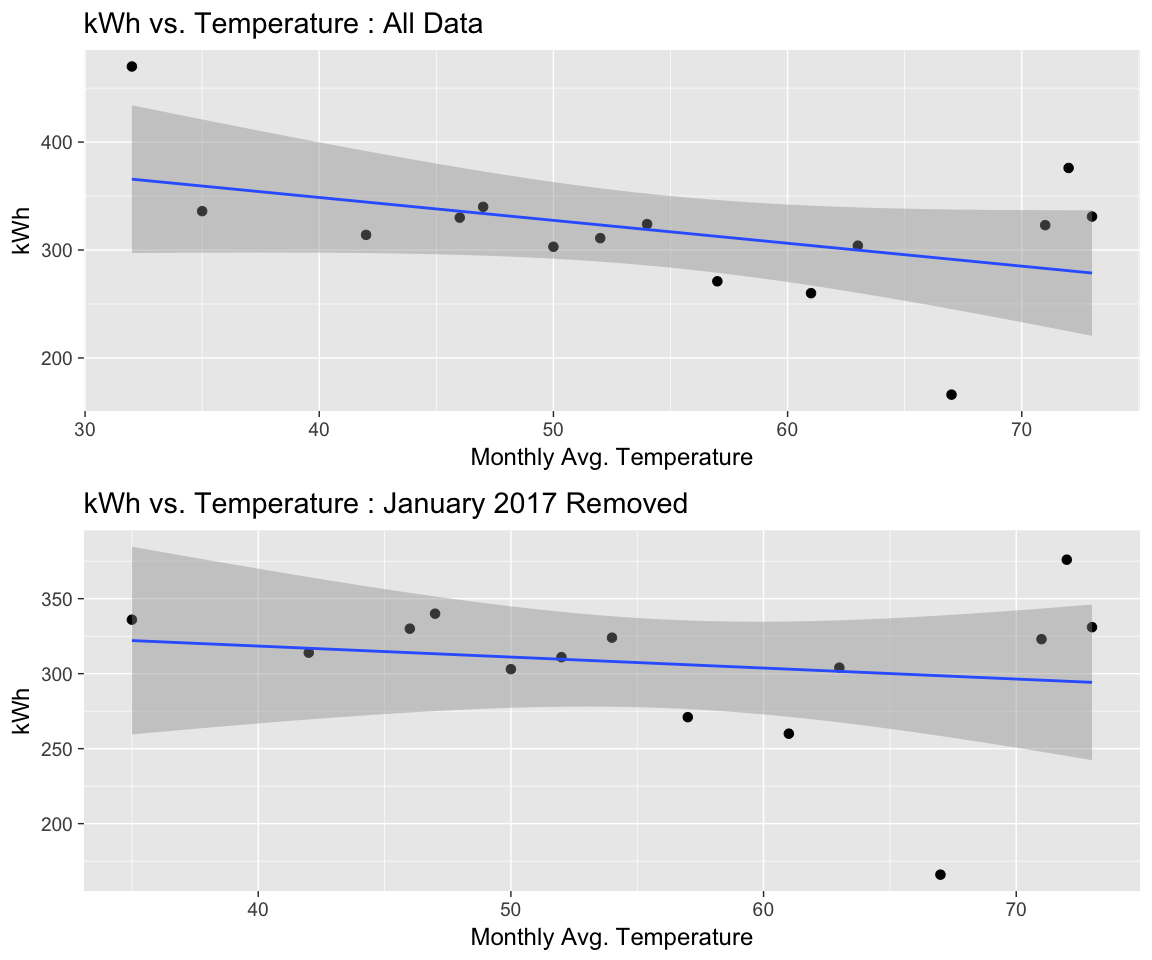
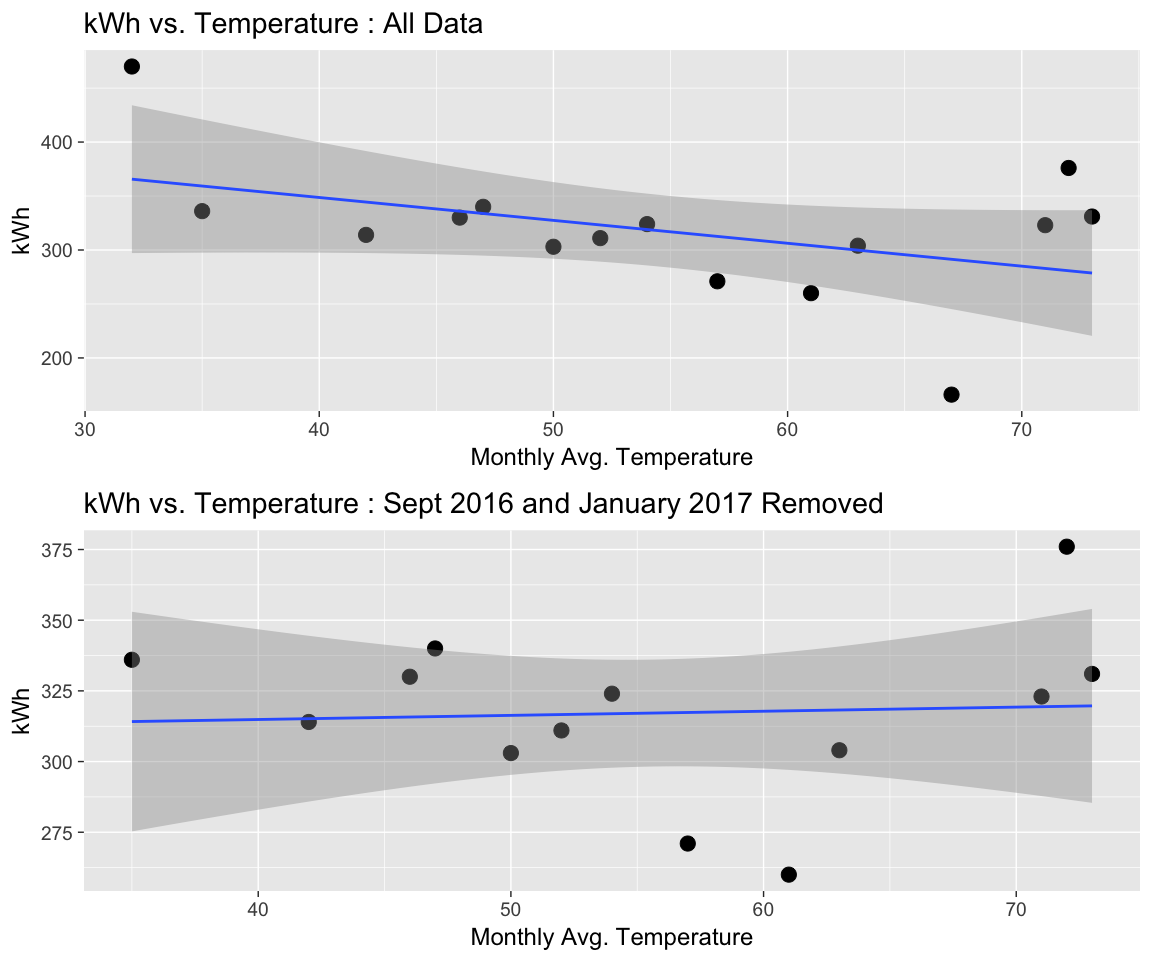
update blog post and figures

diff --git a/_posts/2017-12-11-energy_use.md b/_posts/2017-12-11-energy_use.md
@@ -4,11 +4,19 @@ title: 'Winter Is Coming (with higher energy bills)'
 ---
 
 
-Winter is coming, but for us that means higher energy bills, not [whitewalkers](http://gameofthrones.wikia.com/wiki/White_Walkers) :) . We've had a few unseasonably warm days and not much snow yet, but it's definitely colder and we are now using our heat almost every night. I thought it would be fun to explore our energy usage data in R. 
+
+# Introduction
+
+Winter is coming, but for us that means higher energy bills, not [whitewalkers](http://gameofthrones.wikia.com/wiki/White_Walkers) :) . We've had a few unseasonably warm days and not much snow yet, but it's definitely colder and we are now using our heat almost every night. I thought it would be fun to explore our energy usage data in R.
 
 
 # Data
-[Xcel energy](https://www.xcelenergy.com/) lets you download your usage data as a csv file. However it is not in a format that is easy to read in to R; it's probably possible to write code to read in the sections you want, but it really just wasn't worth it for an analysis I might do once a year. So I just copied the data I needed into a new clean spreadsheet.
+[Xcel energy](https://www.xcelenergy.com/) lets you download your monthly usage data as a csv file. However it is not in a format that is easy to read in to R; it's probably possible to write code to read in the sections you want, but it really just wasn't worth it for an analysis I might do once a year. So I just copied the data I wanted (date, energy use, and temperature) into a new clean spreadsheet.
+
+Then I read the csv files into R and clean them up:
+* Rename columns
+* Convert Date to a date variable
+* remove degree signs from temperatures using gsub
 
 
 
@@ -20,14 +28,14 @@ suppressPackageStartupMessages(library(dplyr))
 suppressPackageStartupMessages(library(lubridate))
 ```
 
-## Gas data
+### Gas data
 
 ```r
 # load gas data
 gas <- read.csv('data/xcel_gas.csv',stringsAsFactors = FALSE)
-gas <-gas %>% rename(Date=Last.Read.Date,therms=Gas.Usage..Therms.,avgTemp=Average.Temperature) %>% 
-  select(Date,therms,avgTemp) %>% 
-  mutate(Date=mdy(Date)) %>% 
+gas <-gas %>% rename(Date=Last.Read.Date,therms=Gas.Usage..Therms.,avgTemp=Average.Temperature) %>%
+  select(Date,therms,avgTemp) %>%
+  mutate(Date=mdy(Date)) %>%
   mutate(avgTemp=as.integer(gsub("[^0-9]", "", avgTemp) ))
 head(gas)
 ```
@@ -44,14 +52,14 @@ head(gas)
 
 
 
-## Electric Data
+### Electric Data
 
 ```r
 ele <- read.csv('data/xcel_elec.csv',stringsAsFactors = FALSE)
 
-ele <- ele %>% rename(Date=Last.Read.Date,kWh=Electric.Usage..kWh.,avgTemp=Average.Temperature) %>% 
-  select(Date,kWh,avgTemp) %>% 
-  mutate(Date=mdy(Date)) %>% 
+ele <- ele %>% rename(Date=Last.Read.Date,kWh=Electric.Usage..kWh.,avgTemp=Average.Temperature) %>%
+  select(Date,kWh,avgTemp) %>%
+  mutate(Date=mdy(Date)) %>%
   mutate(avgTemp=as.integer(gsub("[^0-9]", "", avgTemp) ))
 
 head(ele)
@@ -71,7 +79,9 @@ head(ele)
 
 # Analysis
 
-## Timeseries of temperature, gas use, and electricity use
+
+### Timeseries
+First i'll look at timeseries of temperature, gas use, and electricity use
 
 ```r
 p1 <- gas %>% ggplot(aes(Date,avgTemp))+
@@ -95,8 +105,9 @@ gridExtra::grid.arrange(p1,p2,p3)
 ![](/images/energy_use/unnamed-chunk-5-1.png)<!-- -->
 
 
-## Gas use vs temperature
-* A scatter plot shows there is a very strong correlation between gas use and temperature
+### Energy use vs temperature
+* A scatter plot is good for showing the relationship between energy use and temperature.
+* There is a very strong correlation between gas use and temperature
 * This makes sense because we have gas heat, and the only other gas appliance we have is the water heater.
 * You can see there is sort of a 'break' in the relationship for temperatures above 70 deg. We never use our heat if it's hotter than 70 deg, so gas usage shouldn't depend on temperature above 70 deg.
 
@@ -104,14 +115,14 @@ gridExtra::grid.arrange(p1,p2,p3)
 
 ```r
 p1 <- gas %>% ggplot(aes(avgTemp,therms))+
-  geom_point(size=3)+
+  geom_point(size=5)+
   geom_smooth(method='lm')+
   ggtitle("Gas Usage vs Temperature ; All Data")+
    xlab("Monthly Avg. Temperature")
 
-p2 <- gas %>% filter(avgTemp<70) %>% 
+p2 <- gas %>% filter(avgTemp<70) %>%
   ggplot(aes(avgTemp,therms))+
-  geom_point(size=3)+
+  geom_point(size=5)+
   geom_smooth(method='lm')+
   ggtitle("Gas Usage vs Temperature ; Only Temp <70")+
    xlab("Monthly Avg. Temperature")
@@ -122,11 +133,11 @@ gridExtra::grid.arrange(p1,p2)
 
 ![](/images/energy_use/unnamed-chunk-6-1.png)<!-- -->
 
-## Fit a linear regression of Gas Usage vs. Avg. Temperature
+### Linear regression vs Temperature
 
 We can fit a linear regression to quantify the dependence of gas usage on temperature. I fit 2 models; 1 with all the data, and another excluding data where temperature>70.
 
-### Model w/ All Data
+#### Model w/ All Data
 
 ```r
 model1 <- lm(therms~avgTemp,data=gas)
@@ -139,7 +150,7 @@ broom::tidy(model1)
 ## 2     avgTemp  -2.363515 0.1492451 -15.83647 7.055392e-10
 ```
 
-### Model w/ Only Temperature<70
+#### Model w/ Only Temperature<70
 
 ```r
 model2 <- lm(therms~avgTemp,data=gas %>% filter(avgTemp<70))
@@ -152,39 +163,61 @@ broom::tidy(model2)
 ## 2     avgTemp  -2.705768 0.1665392 -16.24703 1.619307e-08
 ```
 
-* The model slope is -2.71, which means that for every degree colder it is (below 70 degress), we use 2.71 more therms of natural gas. 
+* Both models return estimates that are statistically significant (very small p-values). I'll use the model excluding temperatures <70, since we definitely don't use any gas heat in that range.
+* The model slope is -2.71, which means that for every degree colder it is (below 70 degress), we use 2.71 more therms of natural gas.
 * We are planning to add insulation to our attic, so it will be interesting to see if the slope changes after that (hopefully it does!)
 
 
 
-## Plot electricity use vs Temperature
+
+
+### Electricity use vs Temperature
+
+* From the 1st timeseries plot, the electricity usage looks fairly constant, except for a spike in January 2017. We have gas heat, so *why the spike*?
+* Well, when we bought the house there was no heat vent in the back room and we used an electric heater there; the spike in January is likely due to that. We had a vent installed in February and didn't need to use the electric heater anymore.
+* The first value (Sept. 2016) is also lower than the rest; probably because we were moving in during this period and our first bill didn't cover a full month.
+
 
 ```r
 p1 <- ele %>% ggplot(aes(avgTemp,kWh))+
-  geom_point(size=3)+
+  geom_point(size=5)+
   geom_smooth(method = 'lm')+
   ggtitle("kWh vs. Temperature : All Data")+
    xlab("Monthly Avg. Temperature")
 
 
-p2 <- ele %>% filter(kWh<450) %>%
+p2 <- ele %>% filter(kWh<450 & kWh>200) %>%
   ggplot(aes(avgTemp,kWh))+
-  geom_point(size=3)+
+  geom_point(size=5)+
   geom_smooth(method = 'lm') +
-  ggtitle("kWh vs. Temperature : January 2017 Removed")+
+  ggtitle("kWh vs. Temperature : Sept 2016 and January 2017 Removed")+
  xlab("Monthly Avg. Temperature")
-   
+
 gridExtra::grid.arrange(p1,p2)
 ```
 
 ![](/images/energy_use/unnamed-chunk-9-1.png)<!-- -->
 
+### Linear Regression vs. temperature
+A linear regression of electricty use vs temperature shows no significant relationship (the slope pvalue is 0.5).
 
-* From the timeseries plot above, the electricity usage looks fairly constant, except for a spike in January 2017. We have gas heat, so why the spike? Well when we bought the house, there was no heat vent in the back room and we used an electric heater there; hence the spike. We had a vent installed in February and didn't need to use the electric heater anymore. The first value is also lower than the rest; probably because we were moving in during this period and our first bill didn't cover a full month.
+```r
+model_ele <- lm(kWh~avgTemp,data = ele %>% filter(kWh<450 & kWh>200) )
+broom::tidy(model_ele)
+```
+
+```
+##          term    estimate std.error statistic      p.value
+## 1 (Intercept) 309.0315384  42.46164 7.2778985 1.586776e-05
+## 2     avgTemp   0.1460443   0.74769 0.1953273 8.486979e-01
+```
+
+
+
 
 * The scatter plots above show there isn't really much of a relationship between electricity use and temperature. The 3 higher points above 70 degrees might be due to our window AC unit, but other than that there isn't much seasonality to our electricity use.
 
 * We also just got an electric car that we charge at home every few nights, so it will be interesting to see how that changes our electricity usage.
 
 
-Try it out with your energy data and let me know what you find!
+## Try it out with your energy data and let me know what you find!
